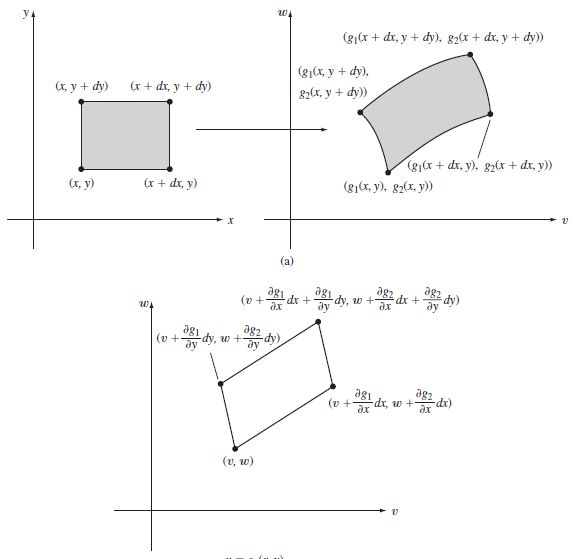
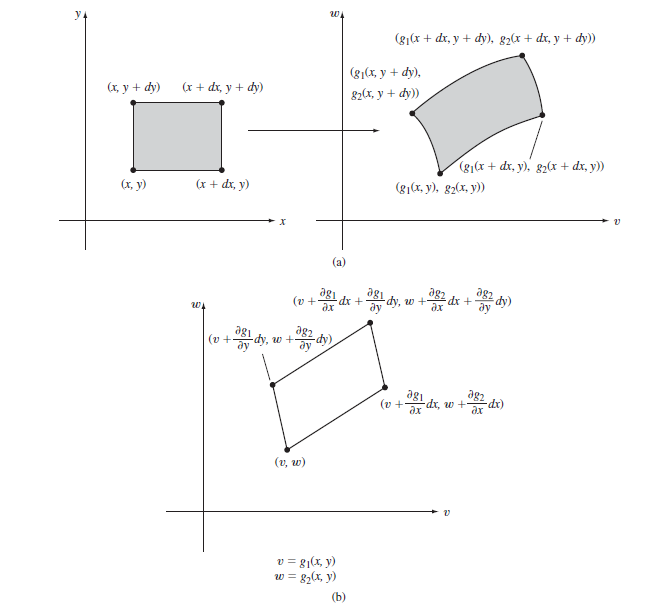
multi

diff --git a/_posts/2021-01-14-multivar.md b/_posts/2021-01-14-multivar.md
@@ -108,10 +108,11 @@ $$
 $$
 
 ## General Transformation of PDF
-![trans](./assets/../../assets/img_prob/prob1.png)
+![trans](/assets/img_prob/prob1.png)
+
 Let
 $$
-    V \ = \ g_1(X, \ Y) \ and \ W \ = \ g_2(X, \ Y)
+    V \ = \ g_1(X, \ Y) \ \ and \ \ W \ = \ g_2(X, \ Y)
 $$
 
 Assume the functions $h_1$ and $h_2$ are respectively inverse function of $g_1$ and $g_2$, then
@@ -131,6 +132,25 @@ Therefore, the relationship of *pdf*s of X, Y and V, W is
 $$
     \begin{aligned}
         f_{X, \ Y}(x, \ y)dxdy \ &= \ g_{V, \ W}(v, \ w)dp \\
-        f_{V, \ W}(v, \ w) \ &= \ \dfrac{f_{X, \ Y}(h_1(v, \ w), h_2(v, \ w))}{\big\vert \dfrac{dp}{dxdy} \big\vert}
+        f_{V, \ W}(v, \ w) \ &= \ \dfrac{f_{X, \ Y}(h_1(v, \ w), h_2(v, \ w))}{\Bigg\vert \dfrac{dp}{dxdy} \Bigg\vert}
     \end{aligned}
+$$
+Because of dP is the area of the parallelogram,
+$$
+    \begin{aligned}
+         dP  \ &= \ det \begin{bmatrix}
+            \dfrac{\partial g_1}{\partial x}dx & \dfrac{\partial g_1}{\partial y}dy \\
+            \dfrac{\partial g_2}{\partial x}dx & \dfrac{\partial g_2}{\partial y}dy
+       \end{bmatrix} 
+
+    \end{aligned}
+$$
+
+As a result, 
+
+$$
+       \Bigg\vert \dfrac{dP}{dxdy} \Bigg\vert \ &= \ begin{bmatrix}
+            \dfrac{\partial g_1}{\partial x} & \dfrac{\partial g_1}{\partial y} \\
+            \dfrac{\partial g_2}{\partial x} & \dfrac{\partial g_2}{\partial y}
+       \end{bmatrix} 
 $$
